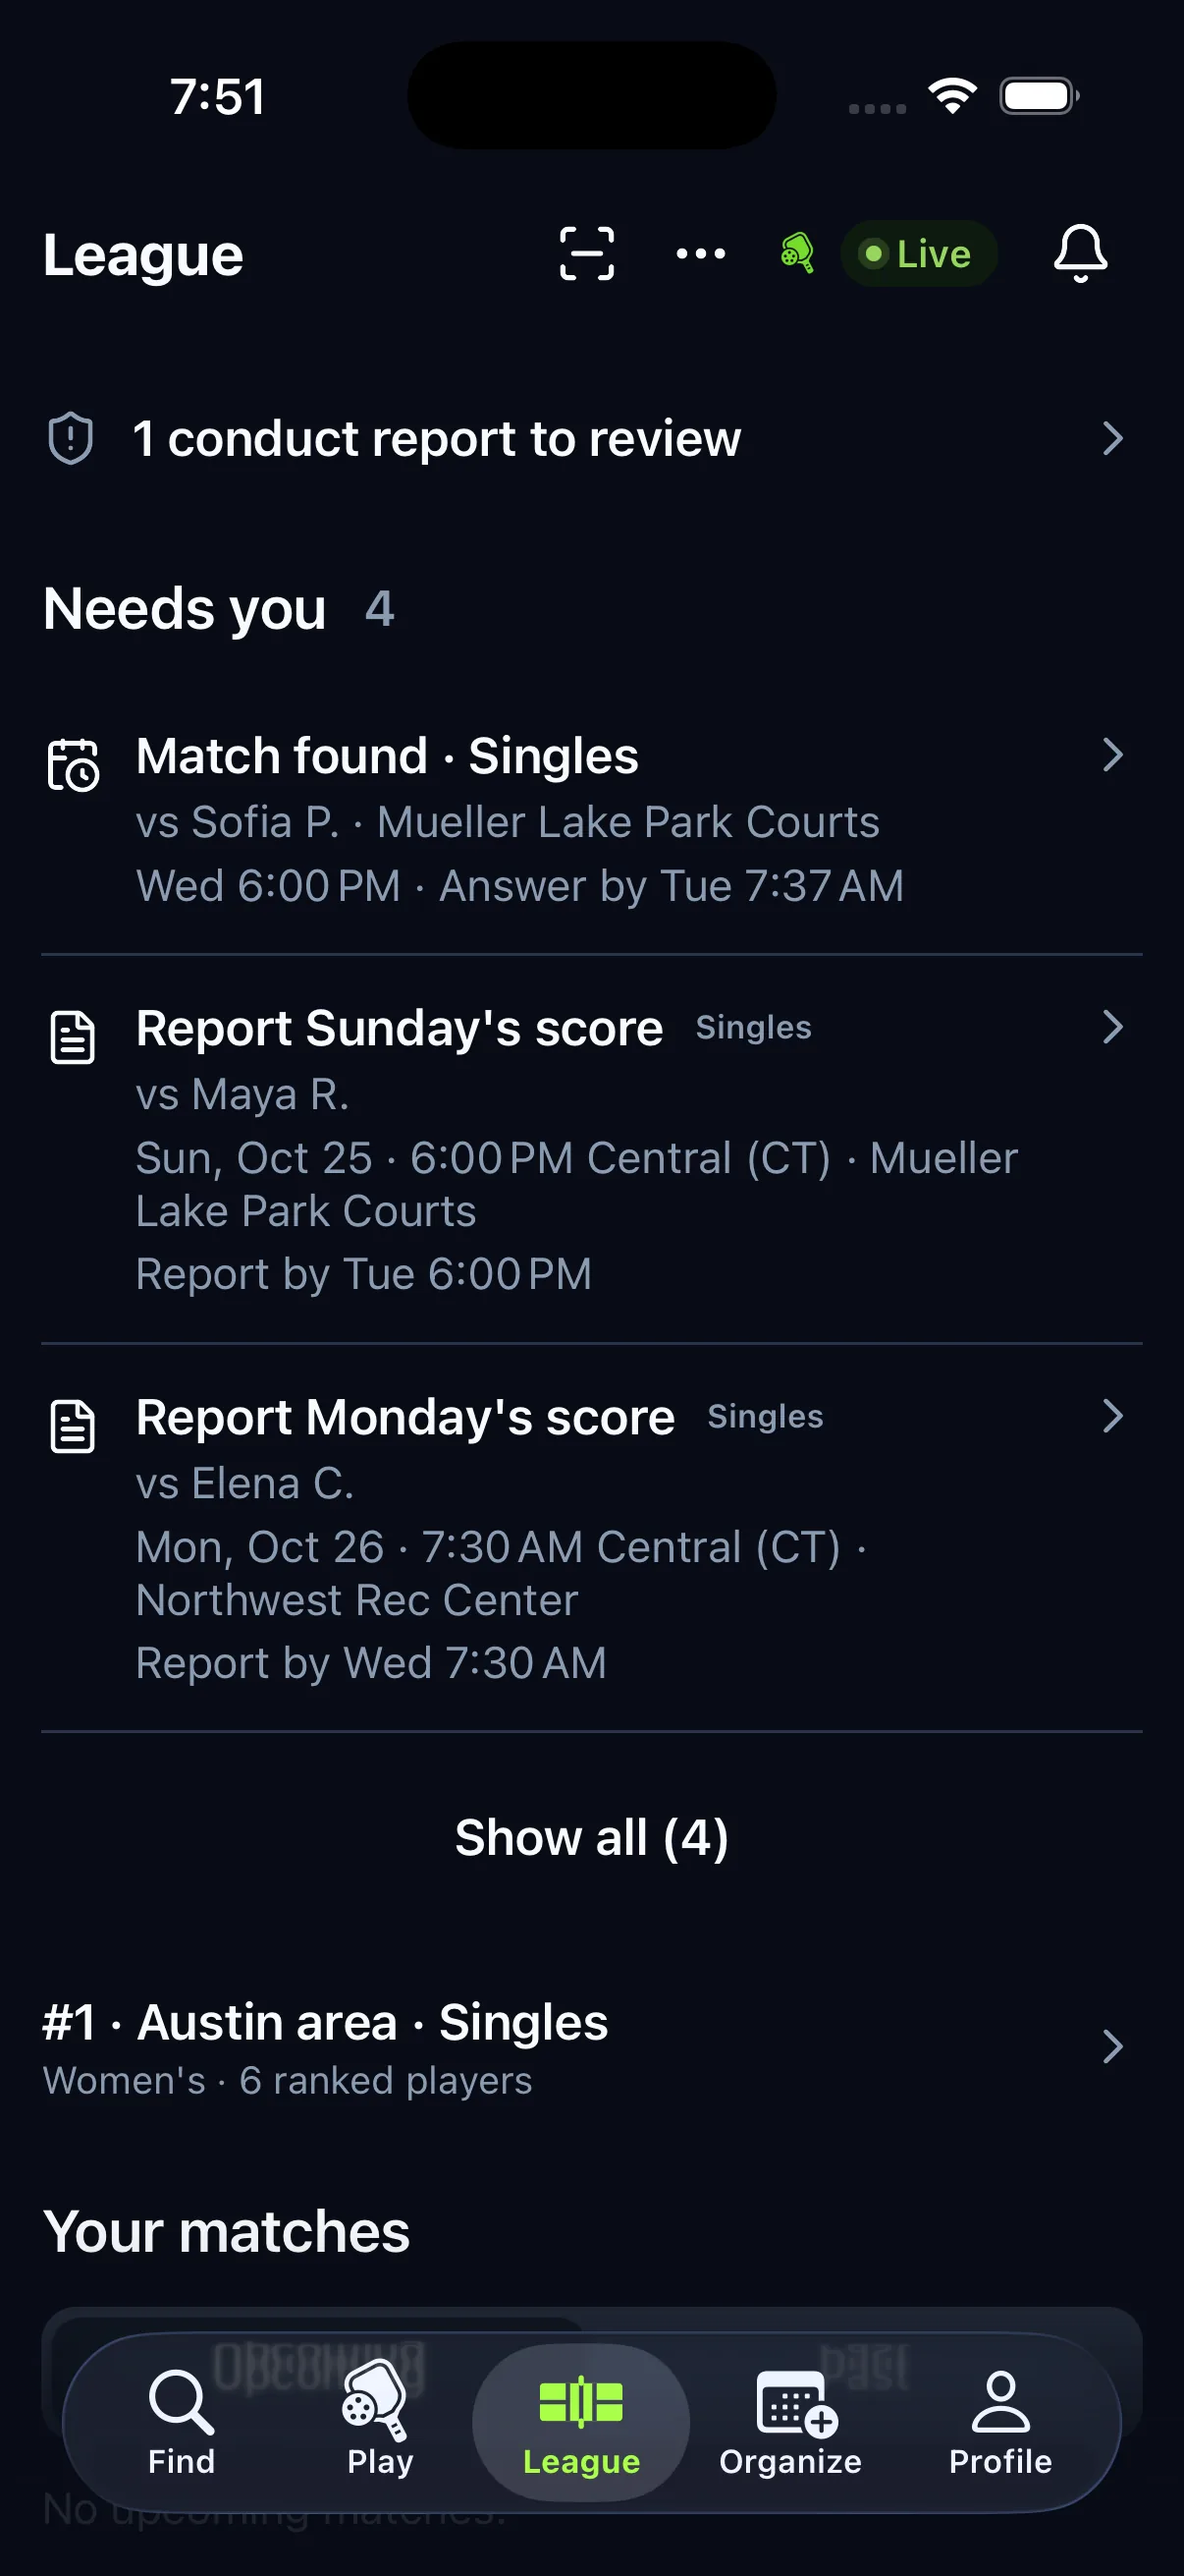
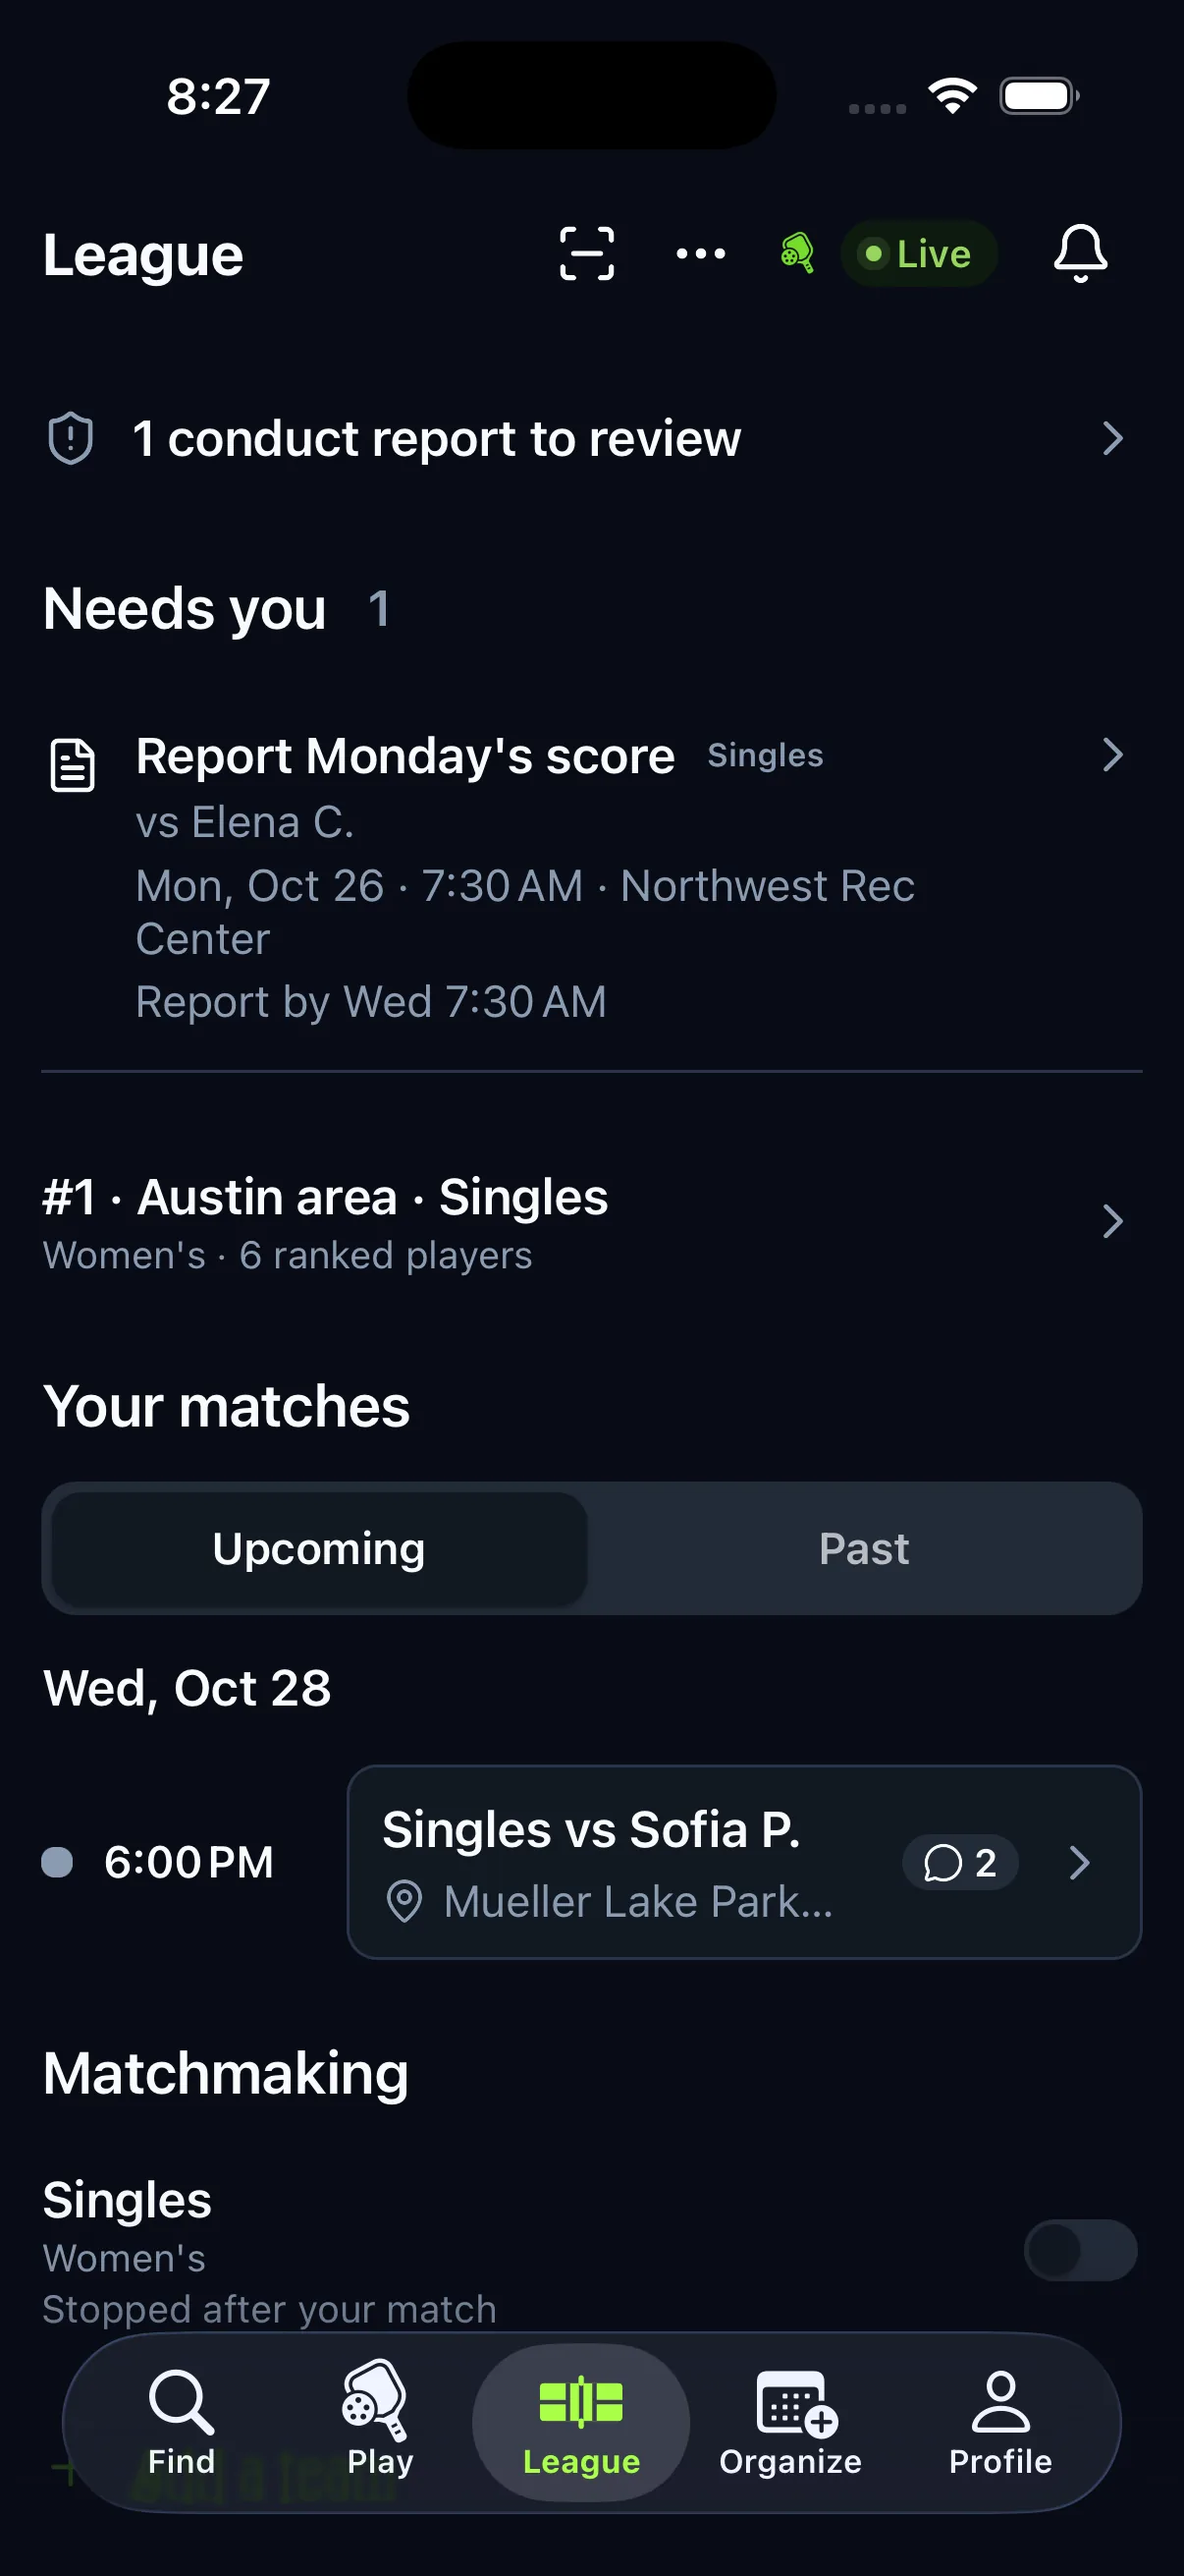
Recapture time-zone and Scan venue screens
In-app League times now name their zone only when the phone's clock
differs from the venue's. Eighteen screens were taken again on a
Central-time simulator, so their times read without "Central (CT)".
The inbox keeps its zone on purpose. Scan to play now lists the
nearest venues first, with distances, as flat rows (screen 64), and
screen 65 shows the chosen venue in place of the old venue sheet.
Captions were updated where the rebuilt story differs. App base is
01e6c876f on local main.

diff --git a/index.html b/index.html
@@ -167,7 +167,7 @@ const CHAPTERS = [
     ['06-setup-venues', 'Choose venues', 'Each venue is a Favorite, a Backup or Don’t use. Suggestions near you stay unsaved until you choose.'],
     ['06b-setup-venues-map', 'Venues on a map', 'The same choices on a map, with your location and nearby courts.'],
     ['07-setup-times', 'Your times', 'Add the times you can play this week or next. Skipping this step is allowed, but matchmaking waits for times.'],
-    ['07b-setup-time-grid', 'Pick hours', 'Wednesday 6 to 9 PM. Times are in Central time, where the venues are.'],
+    ['07b-setup-time-grid', 'Pick hours', 'Wednesday 6 to 9 PM. No time zone: Blake’s phone already reads the venues’ clock. A phone on another clock would see “Central”.'],
     ['07c-setup-times-saved', 'Times saved', 'Wednesday 6–9 PM is saved; Edit times or the × changes it.'],
     ['08-setup-options', 'Matching options', 'Matches are three games to 11, win by 2. Optional: a wider level range after a long wait, and auto-accepting matches inside your times.'],
     ['09-setup-terms', 'Release and terms', 'Join the League stays off until both boxes are checked, and the footer says so.'],
@@ -185,7 +185,7 @@ const CHAPTERS = [
     ['13-league-menu', 'League menu', 'My QR code for Scan to play, League settings and the rules.'],
   ]},
   { id: 'offers', title: 'Match offers', who: 'Circuit proposes a time and place. Each player answers on their own phone.', person: 'Casey', shots: [
-    ['14-offer', 'Match found', 'Singles vs Sofia P., Wednesday 6 PM at Mueller Lake Park Courts. Answer within about three hours.'],
+    ['14-offer', 'Match found', 'Singles vs Sofia P., Wednesday 6 PM at Mueller Lake Park Courts. Answer by Tuesday morning.'],
     ['14b-offer-players', 'Who’s in it', 'Both players haven’t answered yet. Players see display names, photos and League match counts, never phone numbers or email.'],
     ['15-offer-other-times', 'Choose another time', 'Propose a different slot. Sofia sees the choice and can accept it; Casey’s acceptance carries over.'],
     ['16-offer-decline', 'Not this time', 'Declining has no penalty. A second option also pauses matches with Sofia for 7 days.'],
@@ -205,9 +205,9 @@ const CHAPTERS = [
     ['22b-report-filled', 'Games entered', 'Each score sits beside its player, green for the game winner and coral for the loser.'],
     ['23-report-short-confirm', 'Fewer games than planned', 'Reporting two of three planned games asks first: game 3 won’t have a score.'],
     ['24-report-sent', 'Score sent', 'Casey won 11–6, 9–11, 11–7. Priya reviews it, or it counts automatically Wednesday at 4:27 PM.'],
-    ['25-review', 'Review a score', 'Jade reported this morning’s match. Score is right confirms it; Something’s wrong opens a dispute. Doing nothing confirms it Wednesday.'],
+    ['25-review', 'Review a score', 'Elena reported Saturday’s match. Score is right confirms it; Something’s wrong opens a dispute. Doing nothing confirms it Wednesday.'],
     ['26-dispute', 'Dispute', 'Sending a dispute stops the automatic count. If the players don’t agree within 24 hours, the result is voided.'],
-    ['27-confirmed', 'Final', 'Casey beat Elena 2–0. The green glow appears only on a win; a loss shows the same Final without it.'],
+    ['27-confirmed', 'Final', 'Elena won 2–1. A loss shows Final without the green glow that a win gets.'],
     ['28-past', 'Past matches', 'Results by day, winner first, with pending reports marked.'],
   ]},
   { id: 'leaderboards', title: 'Leaderboards', who: 'Ranks come from League results, adjusted for who you played, and update after Sunday.', person: 'Casey', shots: [
@@ -239,8 +239,8 @@ const CHAPTERS = [
     ['43-team-settings', 'Team page', 'Casey and Maya’s Women’s doubles team: times, match settings, Out for now, and End this team last.'],
   ]},
   { id: 'scan', title: 'Scan to play', who: 'Already at the courts with someone? Set up a League match on the spot.', person: 'Casey', shots: [
-    ['44-scan', 'Plan the match', 'Pick the venue and format. Create match plan says what’s missing until it’s ready.'],
-    ['44b-scan-venue-picker', 'Venue', 'Nearby League venues.'],
+    ['44-scan', 'Plan the match', 'The nearest League venues come first, each with its distance, when the phone already allows location. Without it, saved venues lead.'],
+    ['44b-scan-venue-chosen', 'Venue chosen', 'Picking a venue folds the list to it, with Change to pick again, then the format.'],
     ['44c-scan-waiting', 'Scan players', 'One of two players is in, so Scan a player is the next step. Start publishes the match once everyone has confirmed on their own phone.'],
     ['45-my-code', 'My QR', 'The code a host scans, in Circuit green and black. It doubles as an invite link, and can be reset in League settings.'],
   ]},
@@ -256,7 +256,7 @@ const CHAPTERS = [
   { id: 'safety', title: 'Safety and conduct', who: 'Blocks, reports and a clear way to respond.', person: 'Casey', shots: [
     ['51-blocked', 'Blocked players', 'No one is blocked. Blocking happens from a player page or match chat.'],
     ['52-conduct', 'Conduct record', 'A no-show report about Casey is awaiting a response.'],
-    ['52b-conduct-case', 'The report', 'It hasn’t been decided. Casey can challenge it until Wednesday 4:23 PM; otherwise it becomes a confirmed finding.'],
+    ['52b-conduct-case', 'The report', 'It hasn’t been decided. Casey can challenge it until Wednesday 8:26 PM; otherwise it becomes a confirmed finding.'],
     ['52c-conduct-challenge', 'Challenge', 'Explain what happened, up to 500 characters.'],
     ['52d-conduct-under-review', 'Under review', 'Casey’s explanation is sent and the report is under review.'],
     ['53-home-conduct-task', 'Home reminder', 'While a report needs a response, one flat row leads the League home and opens the conduct record.'],

diff --git a/README.md b/README.md
@@ -4,7 +4,7 @@
 
 One page follows two fictional players through Circuit League on iPhone. Blake joins: intro, the four setup stages, notifications and automatic check-in. Casey has played for seven weeks: offers, chat, score reporting and review, leaderboards, player records, the weekly recap, fixed teams, Scan to play, settings, safety and notifications.
 
-All 81 screens were captured on October 26, 2026 on an iPhone 17 Pro simulator (iOS 26.4) in Dark appearance at the Default app text size. Most come from one walkthrough of the app on local main, after commit `e4e2ed091` and the setup check-in step fix that followed it. Ten were recaptured that evening after the second polish pass and the new match chat reactions (local main `8babf9c93`). Seven more were captured or recaptured later that night after the reaction badge and standings info changes (local main `b9c600d12`). Tap any screen to step through the tour full size; arrow keys and swipes move between screens, and `#s12`-style links open a specific screen.
+All 81 screens were captured on October 26, 2026 on an iPhone 17 Pro simulator (iOS 26.4) in Dark appearance at the Default app text size. Most come from one walkthrough of the app on local main, after commit `e4e2ed091` and the setup check-in step fix that followed it. Ten were recaptured that evening after the second polish pass and the new match chat reactions (local main `8babf9c93`). Seven more were captured or recaptured later that night after the reaction badge and standings info changes (local main `b9c600d12`). Eighteen were recaptured after that, once in-app times showed a zone only when the phone's clock differs and Scan to play listed the nearest venues first (local main `01e6c876f`). Tap any screen to step through the tour full size; arrow keys and swipes move between screens, and `#s12`-style links open a specific screen.
 
 All people, matches, venues and safety records are fictional local test data. [Capture list](current-captures.json) names every screen and its source file. [Verification and known gaps](current-evidence.md) records what was checked and what the tour does not show.
 

diff --git a/current-evidence.md b/current-evidence.md
@@ -57,6 +57,14 @@ App commit `b9c600d12` on local main (not pushed) changed reactions and This wee
 
 Other screens in the tour are still the earlier captures.
 
+## Fourth pass (2026-10-26, night)
+
+App commits `c2f902156`, `17e272bc5`, `5aea79394` and `01e6c876f` on local main (not pushed) changed time zones and the Scan to play venue list. The world was rebuilt from an empty database, and the simulator was placed in Austin with location allowed. Eighteen screens were taken again:
+
+- In the app, a time names its zone only when the phone's clock differs from the venue's, or in the repeated hour on the night daylight saving ends. The simulator is on Central time, so every retaken time reads without "Central (CT)" (screens 10, 21, 22, 24, 29, 35, 36, 40, 42, 43, 48 and 76 to 80). The inbox (screen 81) keeps its zone on purpose, because notifications are read outside the app.
+- Scan to play lists the nearest venues first, each with its distance, as flat rows (screen 64). Choosing one folds the list to it (screen 65, which replaces the old venue sheet).
+- The story state differs slightly from earlier passes. The score to review is from Elena, not Jade, and ends in a loss (screens 40 and 42). The challenge deadline is 8:26 PM (screen 77).
+
 ## Page checks
 
 The page was rendered at 360×800, 390×844 and 1280×900 in a headless browser. At those widths:
